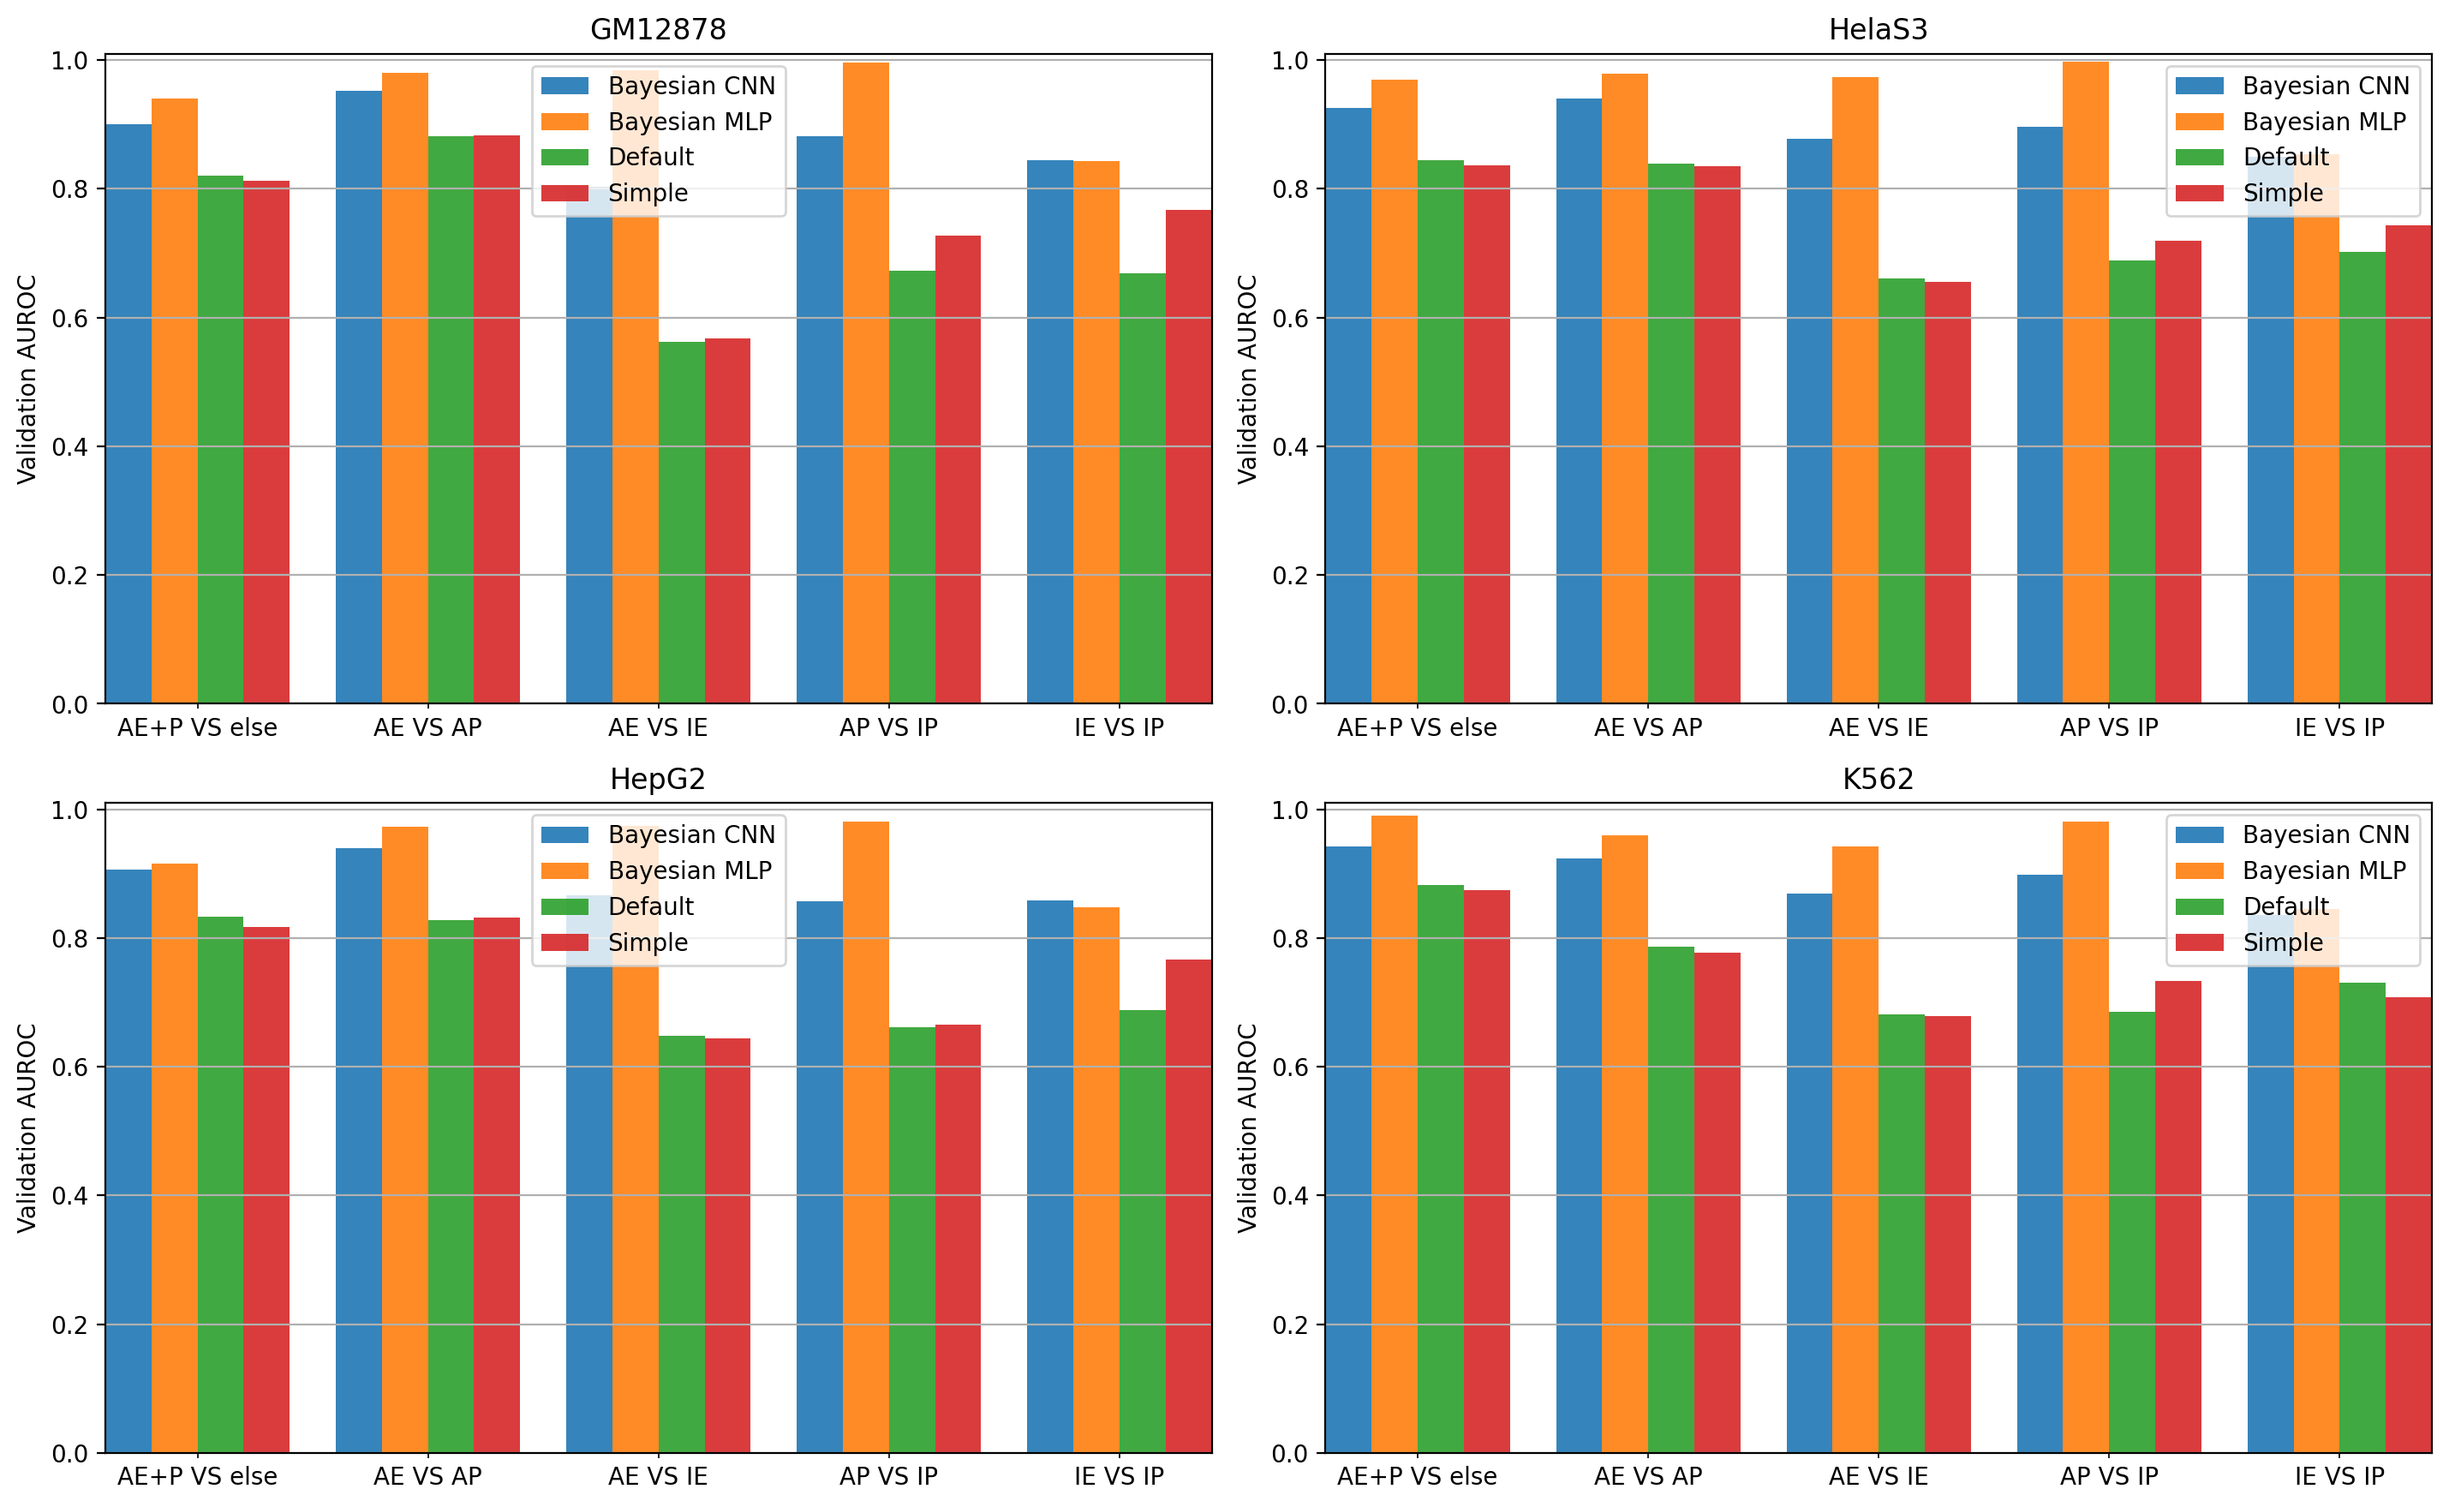
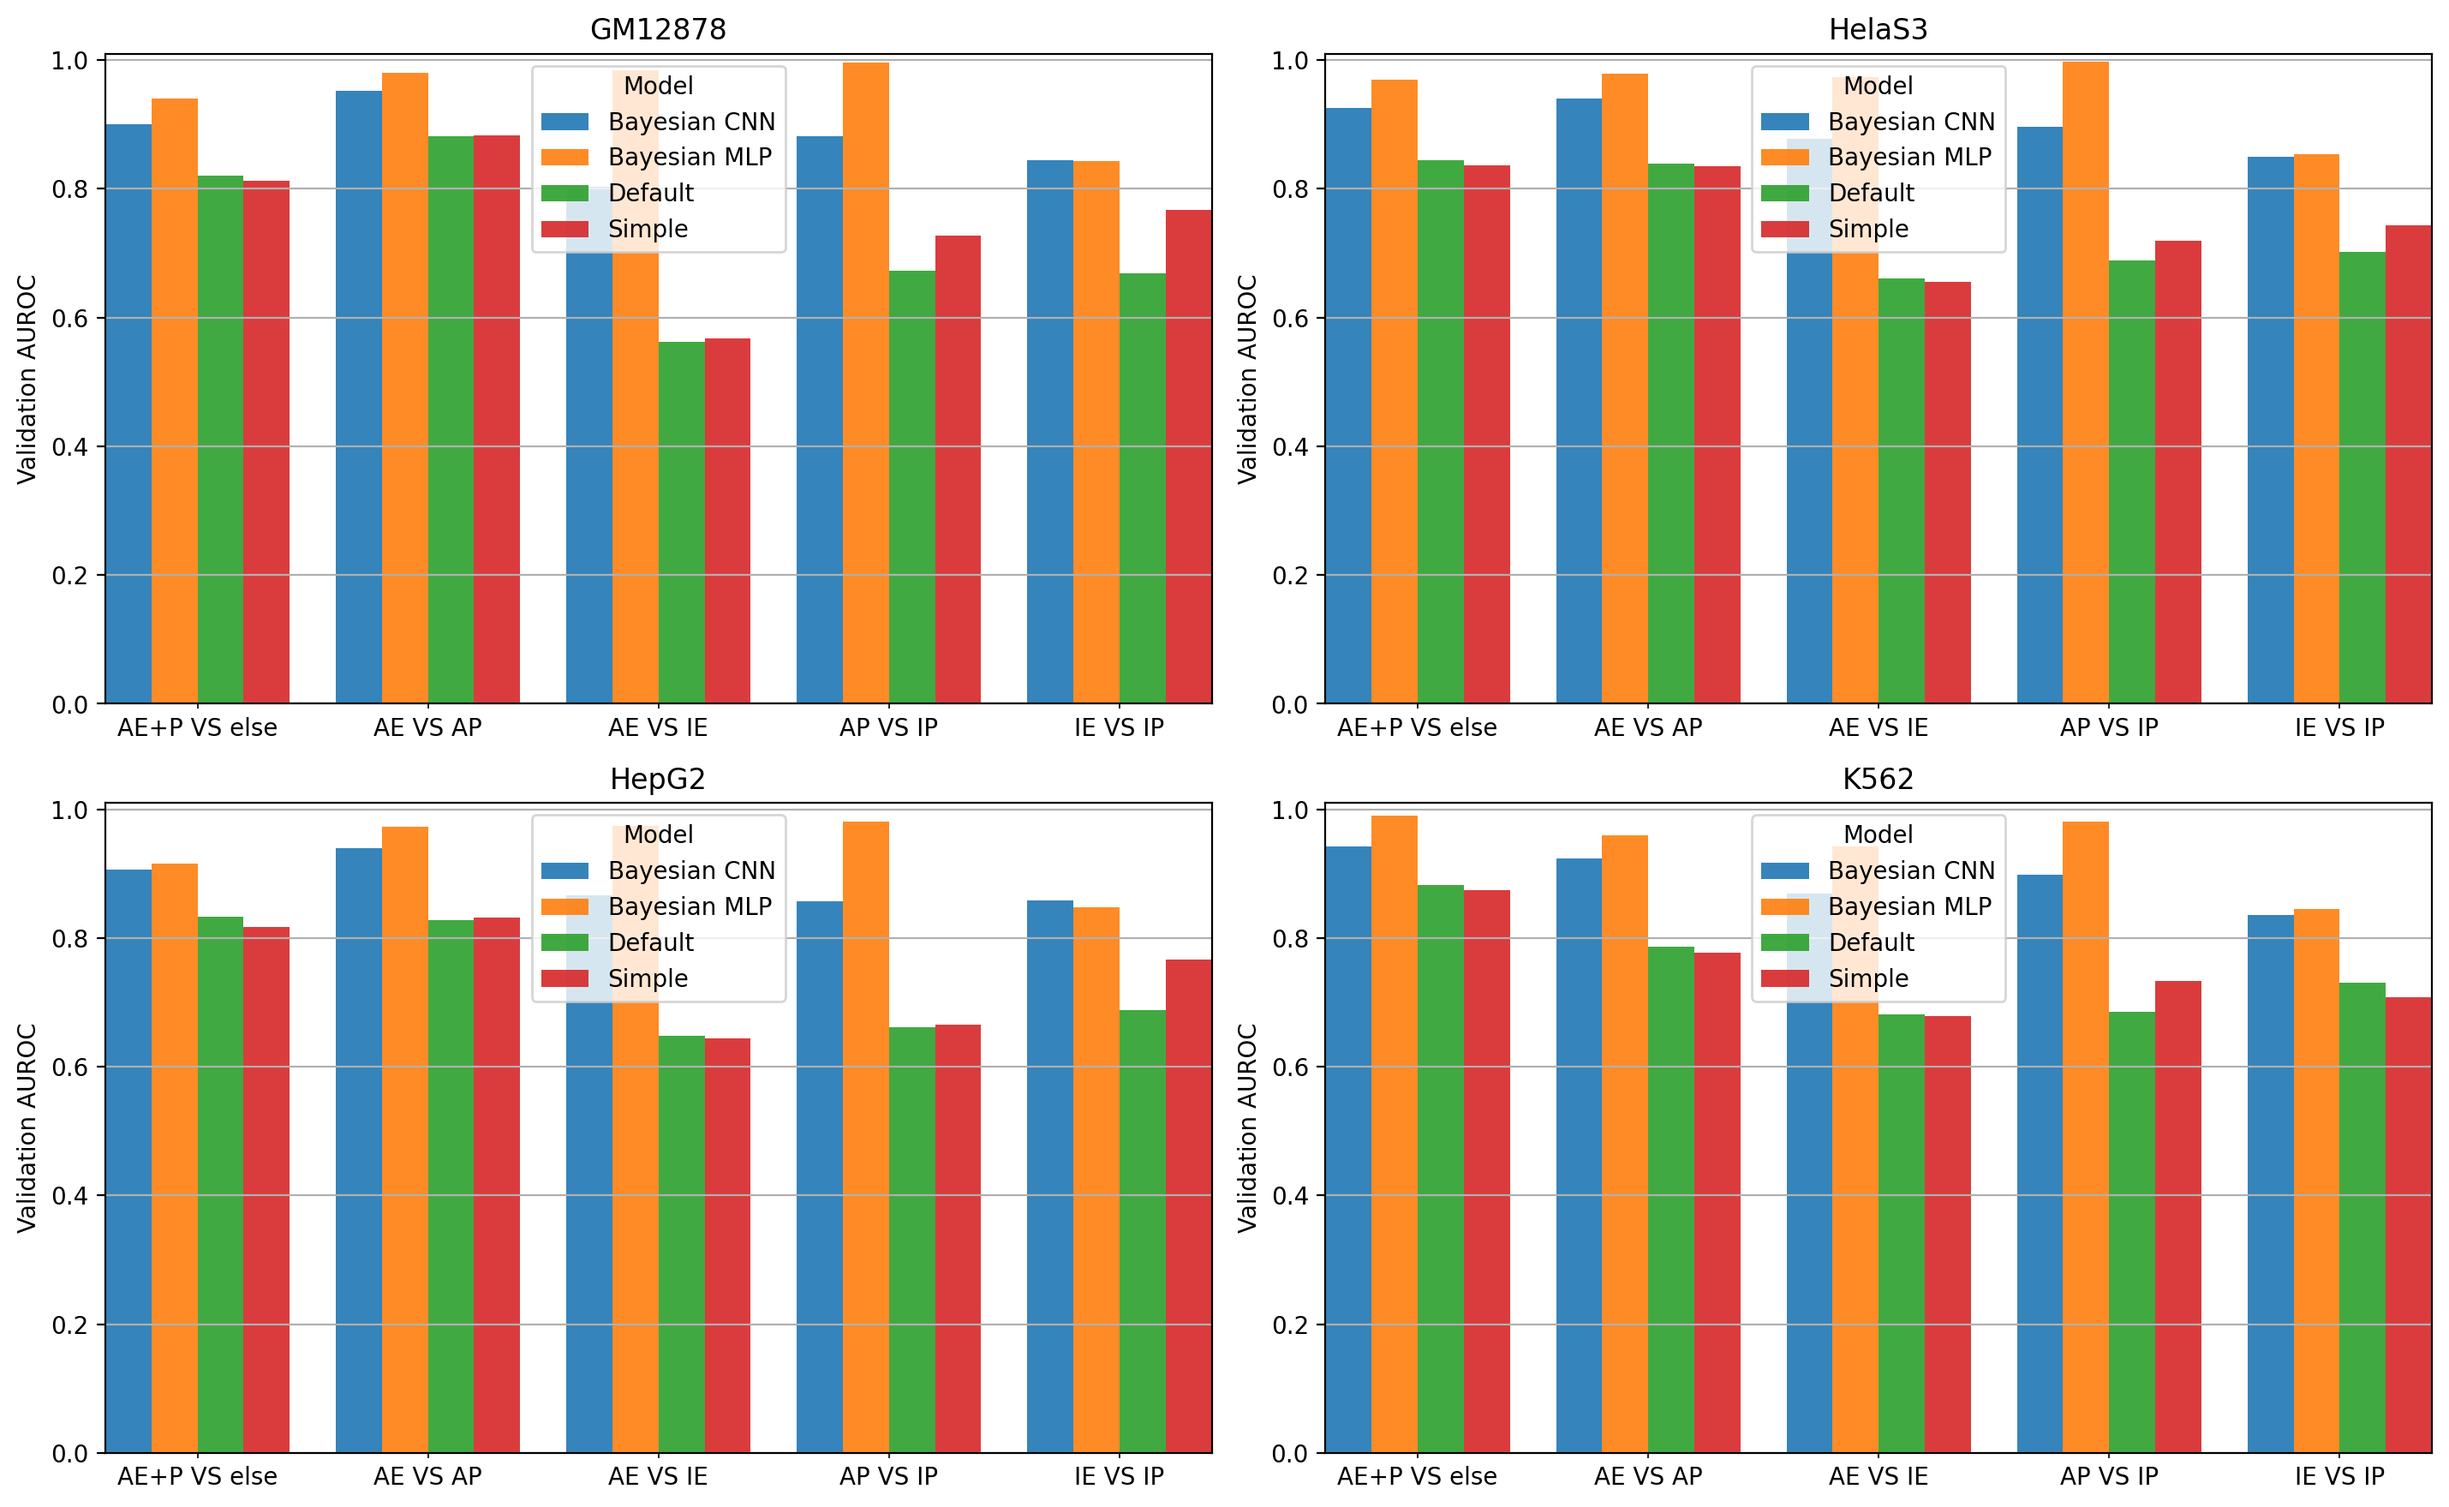
Added title to caption

diff --git a/barplots/utils/remove_duplicated_legend_labels.py b/barplots/utils/remove_duplicated_legend_labels.py
@@ -3,17 +3,33 @@ from sanitize_ml_labels import sanitize_ml_labels
 from typing import Dict, List
 
 
-def remove_duplicated_legend_labels(axes: Axes, legend_position: str, custom_defaults: Dict[str, List[str]]):
+def remove_duplicated_legend_labels(
+    axes: Axes,
+    legend_position: str,
+    legend_title: str,
+    custom_defaults: Dict[str, List[str]]
+):
     """Remove duplicated labels from the plot legend.
 
     Parameters
     ----------
-    axes: Axes,
+    axes: Axes
         Axes where to show the labels.
-    legend_position: str,
+    legend_position: str
         Legend position.
+    legend_title: str
+        Title for the legend.
+    custom_defaults: Dict[str, List[str]]
+        The defaults for normalizing the provided keys.
     """
     handles, labels = axes.get_legend_handles_labels()
     by_label = dict(zip(labels, handles))
-    axes.legend(by_label.values(), sanitize_ml_labels(
-        by_label.keys(), custom_defaults=custom_defaults), loc=legend_position)
+    axes.legend(
+        by_label.values(),
+        sanitize_ml_labels(
+            by_label.keys(),
+            custom_defaults=custom_defaults
+        ),
+        title=sanitize_ml_labels(legend_title, custom_defaults=custom_defaults),
+        loc=legend_position
+    )

diff --git a/barplots/barplot.py b/barplots/barplot.py
@@ -246,7 +246,8 @@ def barplot(
             remove_duplicated_legend_labels(
                 ax,
                 legend_position,
-                custom_defaults
+                df.index.names[-1],
+                custom_defaults,
             )
 
         max_length, min_length = get_max_bar_length(
